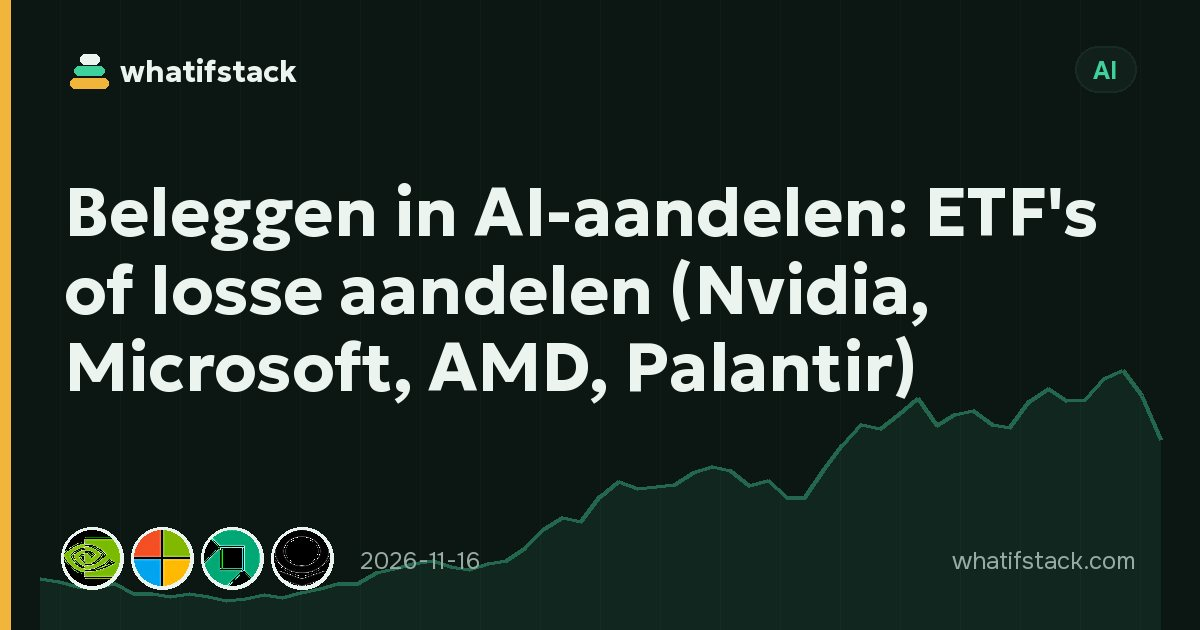
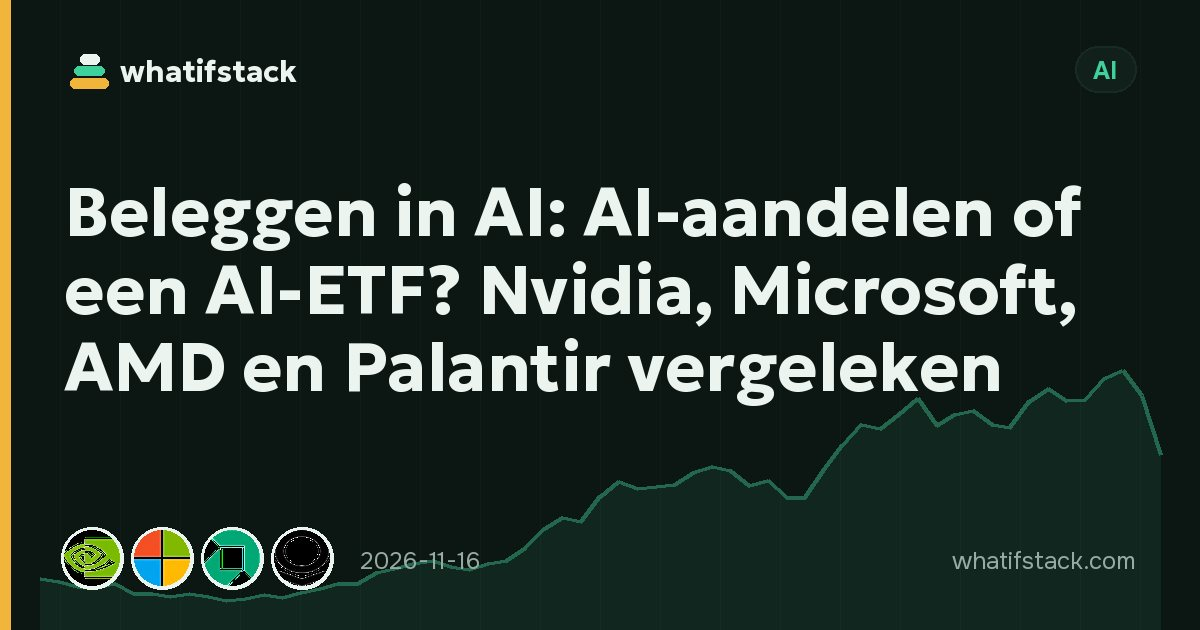
SEO: 5 pages (nl how-to-invest-in-ai-stocks, es copper, th wti, vi wti, ja ntt) + 10 indexing requests

Changed region(s): [[0.0308, 0.3921, 0.8942, 0.6635], [0.4317, 0.2714, 0.925, 0.3921], [0.9558, 0.6635, 0.9867, 0.7238]]

diff --git a/social/seo-log.md b/social/seo-log.md
@@ -20,8 +20,14 @@ date | url | query | impressions | position | CTR | what changed | result after 
 2026-11-25 | /ko/blog/fear-and-greed-index-explained/ | 공포탐욕지수 코인 (6 / 29.3); 코인 공포지수 2 / 29.0; 비트 코인 공포 탐욕 지수 2 / 48.0; 코인공포지수 1 / 10.0 | 49 | 36.2 | 0 % | title «코인 공포탐욕지수란? 0~100 점수 보는 법과 6가지 구성 요소», description (0~100, 6 components), lead answers in 2 sentences (bitcoin-based, 0~24 extreme fear / 75~100 extreme greed, 6 data inputs daily); new cover. Live check OK | due 2026-12-09
 2026-11-25 | /blog/what-is-ethereum/ (uk) | криптовалюта ефіріум (6 / 41.5); eth криптовалюта 5 / 50.8; ефіріум 2 / 37.5; монета ethereum 2 / 33.5 | 46 | 44.1 | 0 % | title «Криптовалюта ефіріум (Ethereum): що це таке і чим відрізняється від біткоїна», description (2015, −99,95 % energy), first sentence «Що таке криптовалюта ефіріум? … мережа, запущена у 2015 році … монета ether (ETH)»; new cover. Live check OK | due 2026-12-09
 2026-11-25 | /en/blog/what-is-dca/ | what is dca (17 / 47.5) | 17+ | 47.5 | 0 % | title «What is DCA? Dollar-cost averaging explained with 5-year results», description ($10 a day, 5 years, BTC/NVDA/S&P 500/gold), 2nd lead sentence answers why (more units when prices fall); new cover. Live check OK (table renders, no raw {{ }}) | due 2026-12-09
+2026-11-26 | /nl/blog/how-to-invest-in-ai-stocks/ | beleggen in ai (4 / 29.5); ai aandelen beleggen belangrijkste aandachtspunten 4 / 53.5; ai etf 5 / 41.2; kunstmatige intelligentie aandelen 2 / 28.5 | 39 | 42.8 | 0 % | title «Beleggen in AI: AI-aandelen of een AI-ETF? Nvidia, Microsoft, AMD en Palantir vergeleken», description (2 ways, SMH, 5 years of $10 a day), lead answers in 2 sentences (single AI stocks vs one AI-ETF, spread vs swings); new cover. Live check OK (table renders, no raw {{ }}, 390 px OK) | due 2026-12-10
+2026-11-26 | /es/copper/ (asset) | precio del cobre (6 / 89.2); precio de cobre hoy 4 / 66.8; copper 14 / 51.7 | 42 | 67.0 | 0 % | only the asset's own es description (data/desc/es.json): starts «El precio del cobre se cotiza en dólares por libra en la COMEX…» + what moves it (China, Chile, Peru). Live check OK (chart OANDA:XCUUSD, 390 px OK) | due 2026-12-10
+2026-11-26 | /th/wti/ (asset) | ราคาน้ำมันโลก กราฟ (7 / 45.1); ราคาน้ำมันดิบ 7 / 53.6; วิเคราะห์ wti 4 / 39.8; กราฟ ราคาน้ำมัน โลก 4 / 64.5 | 38 | 50.5 | 0 % | only the asset's own th description (data/desc/th.json): starts «ราคาน้ำมันดิบ WTI…», NYMEX, $/barrel, one of the two world oil prices with Brent, points to the chart. Live check OK (chart OANDA:WTICOUSD, 390 px OK) | due 2026-12-10
+2026-11-26 | /vi/wti/ (asset) | giá dầu wti hôm nay (3 / 36.0); nền tảng giao dịch dầu 6 / 33.8; giá dầu thô thế giới hiện tại 2 / 7.5 | 36 | 39.7 | 0 % | only the asset's own vi description (data/desc/vi.json): starts «Giá dầu WTI hôm nay là giá dầu thô chuẩn của Mỹ…», NYMEX, $/barrel, with Brent one of the two world oil prices. Live check OK (chart OANDA:WTICOUSD, 390 px OK) | due 2026-12-10
+2026-11-26 | /ja/ntt/ (asset) | ntt 株価 (3 / 49.7) | 36 | 61.6 | 0 % | only the asset's own ja description (data/desc/ja.json): starts «NTT株価（証券コード9432）は東証プライムで円建て…» + 2023 25-for-1 split (buyable in small amounts). Live check OK (own 9432 chart, local price ¥, 390 px OK) | due 2026-12-10
 
 ## Notes (not changed — template/code pages, for the owner)
+- 2026-11-26: biggest pages are still template hubs with junk/anonymised queries: /pt/converter/ 639 / 8.3, /it/converter/ 295, /fr/converter/ 230, /ru/largest-companies/ 193 / 9.0 (2 clicks), /zh/largest-companies/dividend/ 169 / 2.0. /ru/converter/usdt-rub/ 36 / 22.5 («из usdt в рубли», «курс usdt к рублю») and /en/aapl/market-cap/ 51 / 72 («apple market cap») are template pages — left alone. Earlier changes (2026-11-23…25) are not due before 2026-12-07.
 - 2026-11-25: /pt/converter/ is now 632 impr / pos 8.3 (was 486) — same junk-query pattern; /en/nvda/ 111 / 8.0 and /it/nvda/ 107 / 6.1, /ru/news/nvidia-plunges-…/ 90 / 7.9, /en/blog/nvidia-10-dollars-a-day/ 73 / 6.9 — Search Console shows (almost) no queries for them (anonymised), nothing to target. «gümüş gram euro» 84 / 25 lands on /de/converter/gram-eur/ (GRAM coin, not silver grams) — wrong intent, left alone.
 - 2026-11-24: /zh/largest-companies/dividend/ 129 impr / pos 2.1 / 0 clicks and /zh/blog/how-to-invest-in-ai-stocks/ 58 / 1.4, /zh/blog/how-much-to-invest-per-month/ 57 / 1.5 — top positions but 0 clicks; Search Console hides most of their queries (anonymised), so nothing to target yet. /pt/converter/ now 486 impr / pos 7 — same junk-query pattern as the other converter hubs.
 - 2026-11-23: converter hubs /it/ /fr/ /es/ /ru/ /ja/converter/ have the most impressions (290 / 226 / 166 / 158 / 132, pos 9–16, 0 clicks) but only for junk queries («<bank> mobile apps», operator searches) — no real demand to target.
@@ -44,3 +50,13 @@ Rule (owner 2026-11-25): each URL is requested ONCE — never request a URL that
 | 2026-11-25 | https://whatifstack.com/crypto/ | not indexed | requested |
 | 2026-11-25 | https://whatifstack.com/learn/ | on Google | requested |
 | 2026-11-25 | https://whatifstack.com/guide/ | on Google | quota exceeded — not sent (already indexed, no need) |
+| 2026-11-26 | https://whatifstack.com/blog/how-to-buy-bitcoin-in-ukraine/ | not indexed | requested («Indexing requested») |
+| 2026-11-26 | https://whatifstack.com/en/blog/how-to-buy-bitcoin-in-ukraine/ | not indexed | requested («Indexing requested») |
+| 2026-11-26 | https://whatifstack.com/ja/blog/largest-german-companies/ | not indexed | requested («Indexing requested») |
+| 2026-11-26 | https://whatifstack.com/en/blog/largest-german-companies/ | not indexed | requested («Indexing requested») |
+| 2026-11-26 | https://whatifstack.com/ja/blog/largest-korean-companies/ | not indexed | requested («Indexing requested») |
+| 2026-11-26 | https://whatifstack.com/en/blog/largest-korean-companies/ | not indexed | requested («Indexing requested») |
+| 2026-11-26 | https://whatifstack.com/pl/blog/largest-korean-companies/ | not indexed | requested («Indexing requested») |
+| 2026-11-26 | https://whatifstack.com/zh/blog/a-gu-longtou-10-meiyuan-5-nian/ | not indexed | requested («Indexing requested») |
+| 2026-11-26 | https://whatifstack.com/en/blog/how-to-buy-bitcoin-with-a-bank-card/ | not indexed | requested («Indexing requested») |
+| 2026-11-26 | https://whatifstack.com/en/news/bitcoin-losses-highest-since-ftx-glassnode/ | not indexed | requested («Indexing requested») |

diff --git a/content/blog/nl/how-to-invest-in-ai-stocks.md b/content/blog/nl/how-to-invest-in-ai-stocks.md
@@ -1,11 +1,11 @@
 ---
-title: Beleggen in AI-aandelen: ETF's of losse aandelen (Nvidia, Microsoft, AMD, Palantir)
-description: Beleggen in AI-aandelen: losse aandelen als Nvidia, Microsoft, AMD en Palantir of ETF's als SMH, SOXX en QQQ, met echte cijfers voor periodiek beleggen.
+title: Beleggen in AI: AI-aandelen of een AI-ETF? Nvidia, Microsoft, AMD en Palantir vergeleken
+description: Beleggen in AI kan op 2 manieren: losse AI-aandelen (Nvidia, Microsoft, AMD, Palantir) of een AI-ETF zoals SMH. Met 5 jaar echte cijfers van $10 per dag.
 date: 2026-11-16
 category: ai
 assets: nvda, msft, amd, pltr, smh, spy
 ---
-Kunstmatige intelligentie is hét beursthema van dit decennium. Chips, cloudcomputing en AI-software zorgden sinds 2023 voor een groot deel van de koerswinst op de Amerikaanse markt. Veel mensen stellen daarom dezelfde vraag: **hoe beleg je in AI-aandelen zonder alles op één bedrijf in te zetten?**
+Beleggen in AI doe je op twee manieren: je koopt losse AI-aandelen zoals Nvidia, Microsoft, AMD of Palantir, of je koopt één AI-ETF die een hele mand chip- en techbedrijven bezit. Met een ETF spreid je het risico van één bedrijf; met losse aandelen kies je zelf, maar schommelt je resultaat veel harder. Kunstmatige intelligentie zorgde sinds 2023 voor een groot deel van de koerswinst op de Amerikaanse beurs, dus de vraag is vooral: **hoe beleg je in AI-aandelen zonder alles op één bedrijf in te zetten?**
 
 Er zijn twee hoofdroutes: **losse aandelen** kopen (Nvidia, Microsoft, AMD, Palantir en andere) of een **ETF** kopen die een hele mand bezit. Deze gids vergelijkt beide met echte historische cijfers, legt concentratierisico uit en laat zien waar periodiek beleggen (DCA) past.
 
